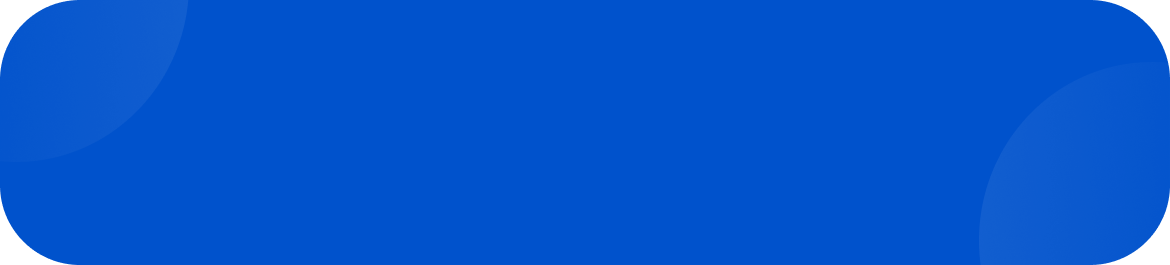
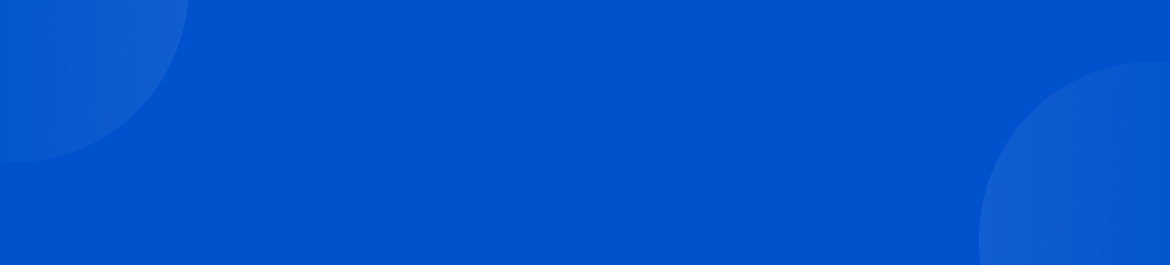
CTA 에 따라 Inquire 를 fixed 로 변경

diff --git a/app/components/Inquire.tsx b/app/components/Inquire.tsx
@@ -1,6 +1,7 @@
 "use client";
 import {
   BackgroundImage,
+  Box,
   Button,
   Container,
   ContainerProps,
@@ -11,9 +12,10 @@ import {
   Stack,
   Text,
 } from "@mantine/core";
-import React, { useContext, useState } from "react";
+import React, { useContext, useEffect, useRef, useState } from "react";
 import { ElementProps } from "@mantine/core/lib/core";
 import { PageContext } from "@/app/hooks";
+import { useWindowScroll } from "@mantine/hooks";
 
 interface InquireProps extends ContainerProps, ElementProps<"div"> {
   isActive: boolean;
@@ -33,68 +35,113 @@ export default function Inquire({
   const pageCtx = useContext(PageContext);
   const [isPopoverOpened, setPopoverOpened] = useState<boolean>(false);
 
+  const [scroll, scrollTo] = useWindowScroll();
+  const offsetPinRef = useRef<HTMLDivElement>(null);
+
+  const [isWidget, setIsWidget] = useState<boolean>(false);
+
+  useEffect(() => {
+    if (offsetPinRef.current === null) return;
+    const rect = offsetPinRef.current.getBoundingClientRect();
+    setIsWidget(
+      !(
+        scroll.y >= offsetPinRef.current.offsetTop ||
+        (rect.top >= 0 && rect.bottom <= window.innerHeight)
+      ),
+    );
+  }, [offsetPinRef, scroll]);
+
   return (
     <FocusTrap active={isActive}>
+      <div ref={offsetPinRef} />
       <Container {...props}>
-        {children}
-        <BackgroundImage src="/images/background-inquire.png" radius={"3em"}>
-          <Flex
-            p={"3em 5em"}
-            direction={pageCtx.userAgent.isDesktop ? "row" : "column"}
-            justify={pageCtx.userAgent.isDesktop ? "space-between" : "center"}
-            align={pageCtx.userAgent.isDesktop ? "center" : "normal"}
-            gap={"1.3em"}
+        <Box
+          w={"calc(100% - 1em)"}
+          style={
+            isWidget
+              ? { position: "fixed", left: "0.5em", bottom: "0.5em" }
+              : { transitionDuration: "0.3s" }
+          }
+        >
+          {children}
+          <BackgroundImage
+            src="/images/background-inquire.png"
+            radius={isWidget ? "8px" : "3em"}
           >
-            <Stack gap={0}>
-              <Text fz={"1em"} c={"var(--color-white)"}>
-                서비스 도입 상담을 통한 온보딩으로
-              </Text>
-              <Text fz={"1.8em"} fw={700} c={"var(--color-white)"}>
-                14일간
-                <br />
-                무료로 체험해보기
-              </Text>
-            </Stack>
             <Flex
-              direction={pageCtx.userAgent.isDesktop ? "row" : "column"}
-              justify={pageCtx.userAgent.isDesktop ? "center" : "normal"}
-              align={pageCtx.userAgent.isDesktop ? "start" : "normal"}
-              gap={8}
+              p={isWidget ? "0.8em 1em" : "3em 5em"}
+              direction={
+                pageCtx.userAgent.isDesktop
+                  ? "row"
+                  : isWidget
+                    ? "row"
+                    : "column"
+              }
+              justify={
+                isWidget || pageCtx.userAgent.isDesktop
+                  ? "space-between"
+                  : "center"
+              }
+              align={
+                isWidget || pageCtx.userAgent.isDesktop ? "center" : "normal"
+              }
+              gap={"1.3em"}
             >
-              <Popover
-                opened={isPopoverOpened}
-                width={200}
-                position="bottom"
-                withArrow
-                shadow="md"
+              <Stack gap={0}>
+                <Text fz={isWidget ? "0.8em" : "1em"} c={"var(--color-white)"}>
+                  서비스 도입 상담을 통한 온보딩으로
+                </Text>
+                <Text
+                  fz={isWidget ? "1.2em" : "1.8em"}
+                  fw={700}
+                  c={"var(--color-white)"}
+                >
+                  14일간
+                  {isWidget ? " " : <br />}
+                  무료로 체험해보기
+                </Text>
+              </Stack>
+              <Flex
+                direction={pageCtx.userAgent.isDesktop ? "row" : "column"}
+                justify={pageCtx.userAgent.isDesktop ? "center" : "normal"}
+                align={pageCtx.userAgent.isDesktop ? "start" : "normal"}
+                gap={8}
               >
-                <Popover.Target>
-                  <Input
-                    placeholder="이메일 입력 ..."
-                    type={"email"}
-                    size={"md"}
-                    value={inquireEmail}
-                    onChange={(e) => onInquireEmailChange(e.target.value)}
-                    onFocus={() => setPopoverOpened(true)}
-                    onBlur={() => setPopoverOpened(false)}
-                  />
-                </Popover.Target>
-                <Popover.Dropdown>
-                  <Text size="xs">
-                    이메일을 입력하고, 무료상담 신청 버튼을 눌러주세요.
-                  </Text>
-                </Popover.Dropdown>
-              </Popover>
-              <Button
-                color={"var(--color-secondary)"}
-                size={"md"}
-                onClick={onInquireClick}
-              >
-                무료상담 신청
-              </Button>
+                <Popover
+                  opened={isPopoverOpened}
+                  width={200}
+                  position="bottom"
+                  withArrow
+                  shadow="md"
+                >
+                  <Popover.Target>
+                    <Input
+                      placeholder="이메일 입력 ..."
+                      type={"email"}
+                      size={"md"}
+                      value={inquireEmail}
+                      onChange={(e) => onInquireEmailChange(e.target.value)}
+                      onFocus={() => setPopoverOpened(true)}
+                      onBlur={() => setPopoverOpened(false)}
+                    />
+                  </Popover.Target>
+                  <Popover.Dropdown>
+                    <Text size="xs">
+                      이메일을 입력하고, 무료상담 신청 버튼을 눌러주세요.
+                    </Text>
+                  </Popover.Dropdown>
+                </Popover>
+                <Button
+                  color={"var(--color-secondary)"}
+                  size={"md"}
+                  onClick={onInquireClick}
+                >
+                  무료상담 신청
+                </Button>
+              </Flex>
             </Flex>
-          </Flex>
-        </BackgroundImage>
+          </BackgroundImage>
+        </Box>
       </Container>
     </FocusTrap>
   );

diff --git a/app/page.tsx b/app/page.tsx
@@ -141,7 +141,7 @@ export default function Page(userAgent: UserAgent) {
                   onInquireEmailChange={(text) => setInquireEmail(text)}
                   onInquireClick={() => onInquireClick()}
                 />
-                <Group justify={"center"} visibleFrom="xs">
+                <Group justify={"center"} px={"1em"}>
                   <Image
                     radius="md"
                     src="/images/landing-page-01.png"
@@ -155,7 +155,7 @@ export default function Page(userAgent: UserAgent) {
                   bg={
                     "linear-gradient(0deg, rgba(255,255,255,0) 0%, rgba(255,255,255,1) 63%)"
                   }
-                  top={isDesktopMedia ? "-3em" : "0"}
+                  top={"-3em"}
                   style={{
                     position: "relative",
                     borderTop: "1px solid var(--color-lightgray-2)",
